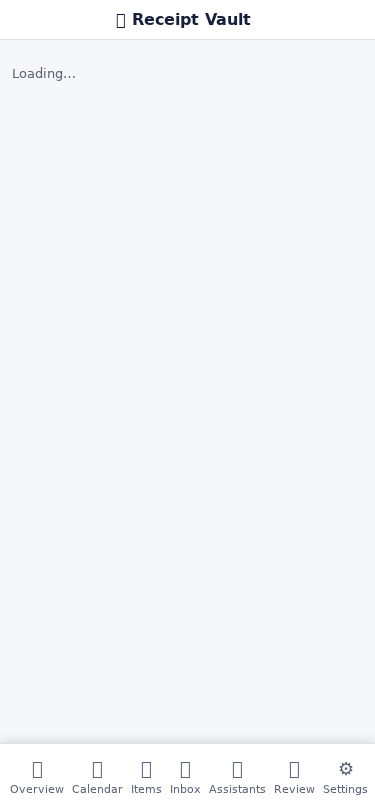
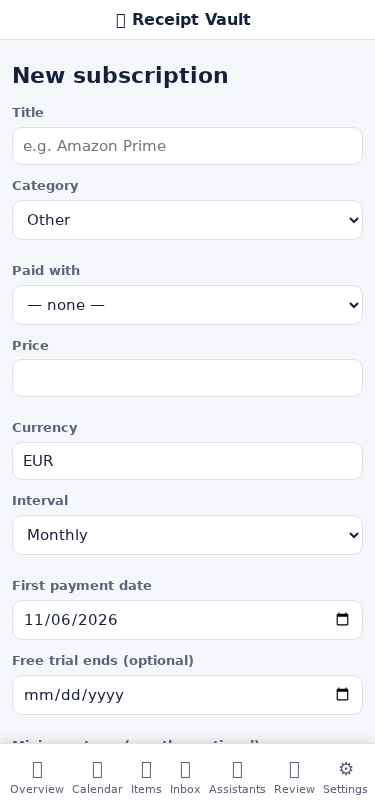
Fix new-item form stuck on Loading (liveQuery null sentinel); re-capture form screenshot

diff --git a/src/screens/ItemForm.tsx b/src/screens/ItemForm.tsx
@@ -17,7 +17,7 @@ const INTERVALS = [
 ];
 
 export default function ItemForm({ kind, editId }: { kind?: ItemKind; editId?: string }) {
-  const existing = useLiveQuery(async () => (editId ? await db.items.get(editId) : undefined), [editId]);
+  const existing = useLiveQuery(async () => (editId ? (await db.items.get(editId)) ?? null : null), [editId]);
   const items = useLiveQuery(() => db.items.toArray());
   const methods = useLiveQuery(() => db.paymentMethods.toArray());
   const settings = useLiveQuery(() => getSettings());
